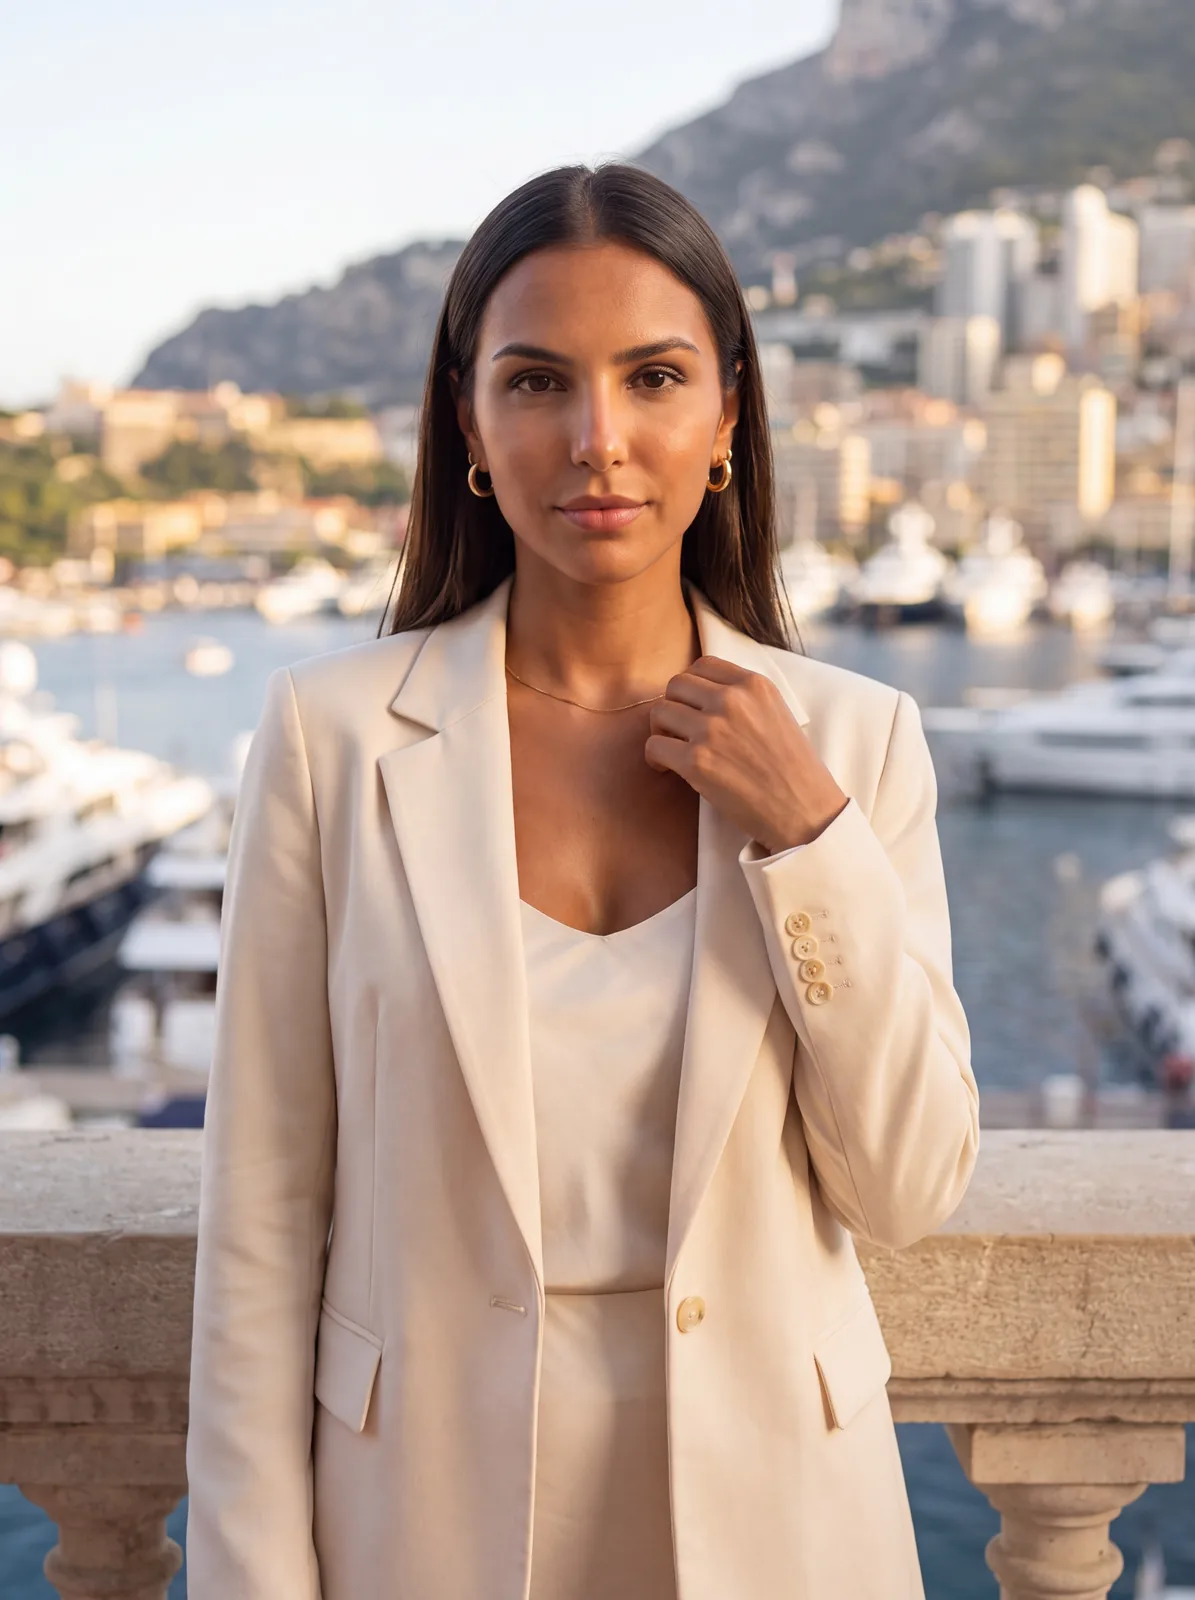
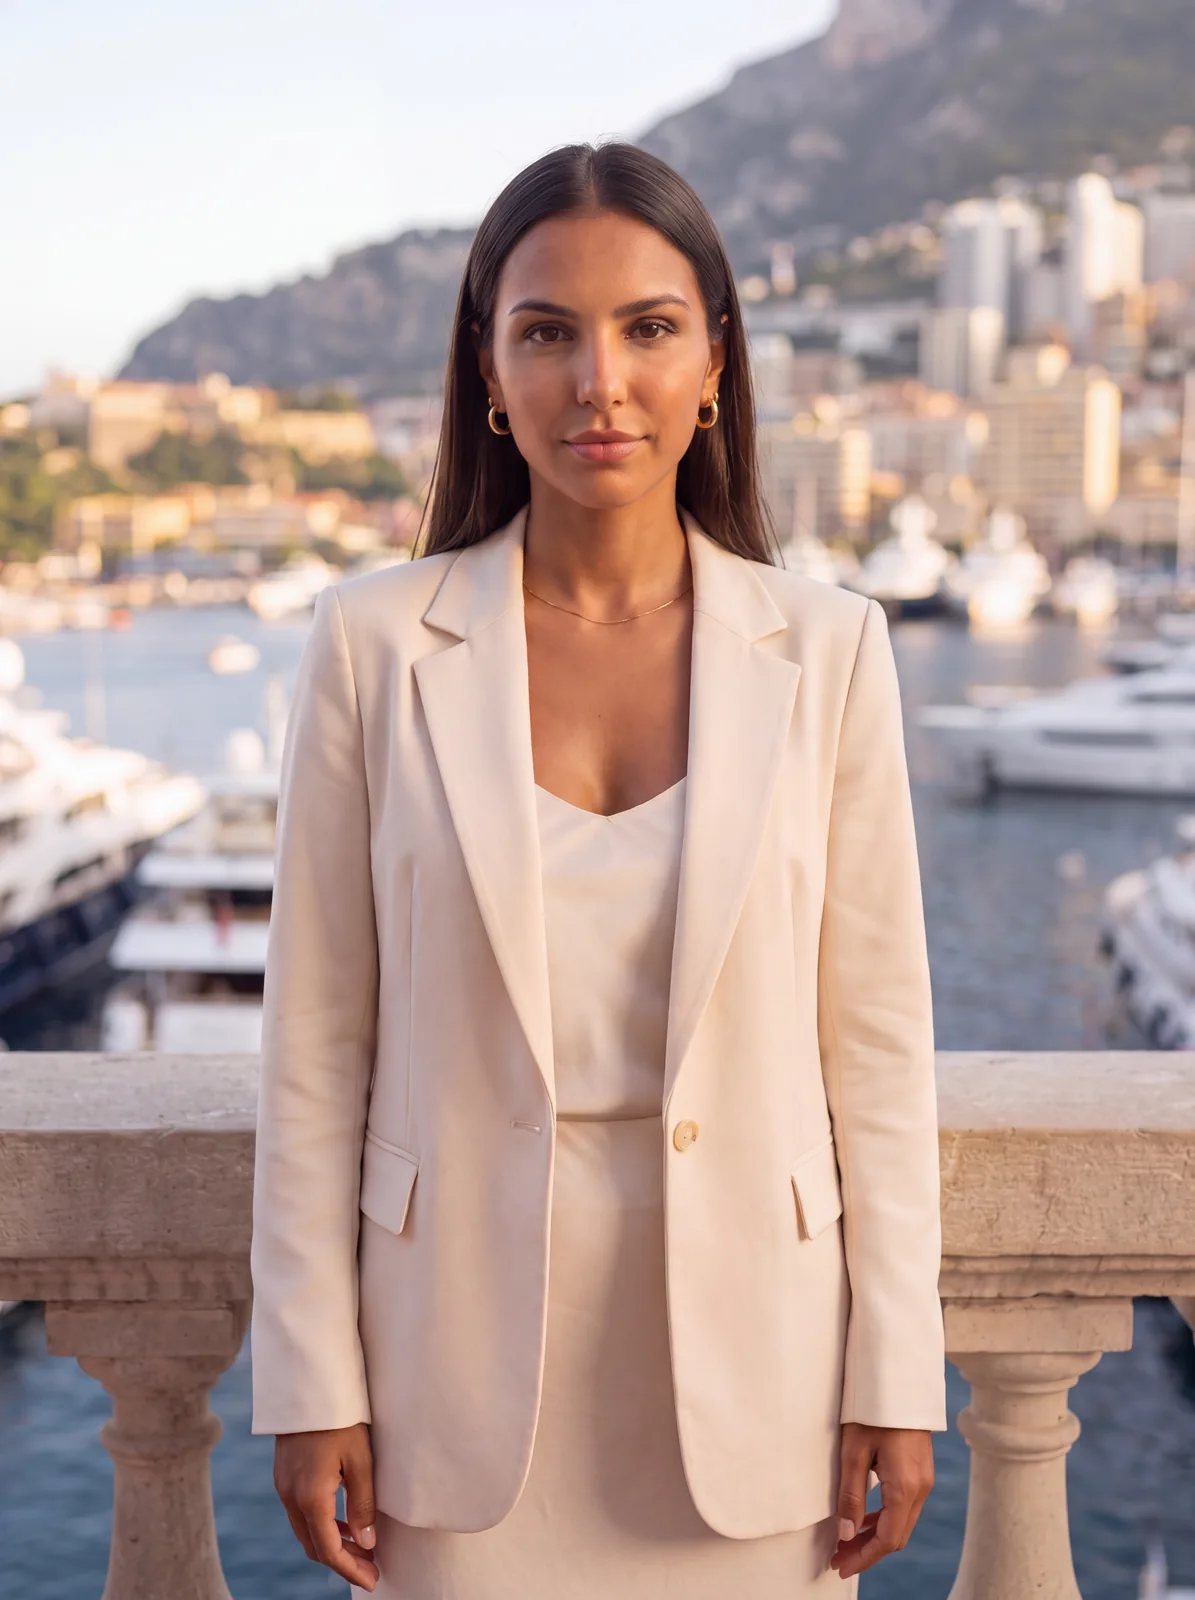
Portrait Sofia : de face, bras le long du corps

diff --git a/fr/index.html b/fr/index.html
@@ -207,7 +207,7 @@ section[id]{scroll-margin-top:68px}
    <p data-fr>Six visages, une exigence : le même visage sur chaque image, une peau réelle, une vraie lumière. Cliquez sur une mannequin pour ouvrir son book.</p>
   </div>
   <div class="models">
-   <button class="model" data-book="sofia"><div class="ph"><img src="../img/sofia-portrait.webp?v=20260927" alt="Sofia, AI model" loading="lazy"></div><h3>Sofia</h3><span data-en>Mediterranean · Muse &amp; creative director</span><span data-fr>Méditerranéenne · Égérie &amp; directrice artistique</span></button>
+   <button class="model" data-book="sofia"><div class="ph"><img src="../img/sofia-portrait.webp?v=20260927b" alt="Sofia, AI model" loading="lazy"></div><h3>Sofia</h3><span data-en>Mediterranean · Muse &amp; creative director</span><span data-fr>Méditerranéenne · Égérie &amp; directrice artistique</span></button>
    <button class="model" data-book="elin"><div class="ph"><img src="../img/elin-portrait.webp" alt="Elin, AI model" loading="lazy"></div><h3>Elin</h3><span data-en>Scandinavian · Natural, sun-kissed</span><span data-fr>Scandinave · Naturelle, solaire</span></button>
    <button class="model" data-book="amara"><div class="ph"><img src="../img/amara-portrait.webp" alt="Amara, AI model" loading="lazy"></div><h3>Amara</h3><span data-en>West African · Regal, couture</span><span data-fr>Ouest-africaine · Allure couture</span></button>
    <button class="model" data-book="mei"><div class="ph"><img src="../img/mei-portrait.webp" alt="Mei, AI model" loading="lazy"></div><h3>Mei</h3><span data-en>East Asian · Cool, minimal</span><span data-fr>Asiatique · Chic minimaliste</span></button>
@@ -337,7 +337,7 @@ section[id]{scroll-margin-top:68px}
 </footer>
 
 <script>
-const ASSET_V="202609270057";
+const ASSET_V="202609270103";
 const BOOKS={
  sofia:{name:"Sofia",imgs:["sofia-portrait","sofia-1","sofia-bijoux-cou","sofia-2","sofia-3","sofia-bijoux-mains","sofia-4","sofia-bijoux-montre","sofia-5","sofia-bijoux-oreille","sofia-maldives","sofia-heliport"],video:"../video/sofia-monaco.mp4"},
  elin:{name:"Elin",imgs:["elin-portrait","elin-1","elin-bijoux-cou","elin-2","elin-3","elin-bijoux-mains","elin-4","elin-bijoux-montre","elin-5","elin-bijoux-oreille","elin-ny","elin-alpes"],video:"../video/elin-monaco.mp4"},

diff --git a/index.html b/index.html
@@ -205,7 +205,7 @@ section[id]{scroll-margin-top:68px}
    <p data-fr>Six visages, une exigence : le même visage sur chaque image, une peau réelle, une vraie lumière. Cliquez sur une mannequin pour ouvrir son book.</p>
   </div>
   <div class="models">
-   <button class="model" data-book="sofia"><div class="ph"><img src="img/sofia-portrait.webp?v=20260927" alt="Sofia, AI model" loading="lazy"></div><h3>Sofia</h3><span data-en>Mediterranean · Muse &amp; creative director</span><span data-fr>Méditerranéenne · Égérie &amp; directrice artistique</span></button>
+   <button class="model" data-book="sofia"><div class="ph"><img src="img/sofia-portrait.webp?v=20260927b" alt="Sofia, AI model" loading="lazy"></div><h3>Sofia</h3><span data-en>Mediterranean · Muse &amp; creative director</span><span data-fr>Méditerranéenne · Égérie &amp; directrice artistique</span></button>
    <button class="model" data-book="elin"><div class="ph"><img src="img/elin-portrait.webp" alt="Elin, AI model" loading="lazy"></div><h3>Elin</h3><span data-en>Scandinavian · Natural, sun-kissed</span><span data-fr>Scandinave · Naturelle, solaire</span></button>
    <button class="model" data-book="amara"><div class="ph"><img src="img/amara-portrait.webp" alt="Amara, AI model" loading="lazy"></div><h3>Amara</h3><span data-en>West African · Regal, couture</span><span data-fr>Ouest-africaine · Allure couture</span></button>
    <button class="model" data-book="mei"><div class="ph"><img src="img/mei-portrait.webp" alt="Mei, AI model" loading="lazy"></div><h3>Mei</h3><span data-en>East Asian · Cool, minimal</span><span data-fr>Asiatique · Chic minimaliste</span></button>
@@ -335,7 +335,7 @@ section[id]{scroll-margin-top:68px}
 </footer>
 
 <script>
-const ASSET_V="202609270057";
+const ASSET_V="202609270103";
 const BOOKS={
  sofia:{name:"Sofia",imgs:["sofia-portrait","sofia-1","sofia-bijoux-cou","sofia-2","sofia-3","sofia-bijoux-mains","sofia-4","sofia-bijoux-montre","sofia-5","sofia-bijoux-oreille","sofia-maldives","sofia-heliport"],video:"video/sofia-monaco.mp4"},
  elin:{name:"Elin",imgs:["elin-portrait","elin-1","elin-bijoux-cou","elin-2","elin-3","elin-bijoux-mains","elin-4","elin-bijoux-montre","elin-5","elin-bijoux-oreille","elin-ny","elin-alpes"],video:"video/elin-monaco.mp4"},
